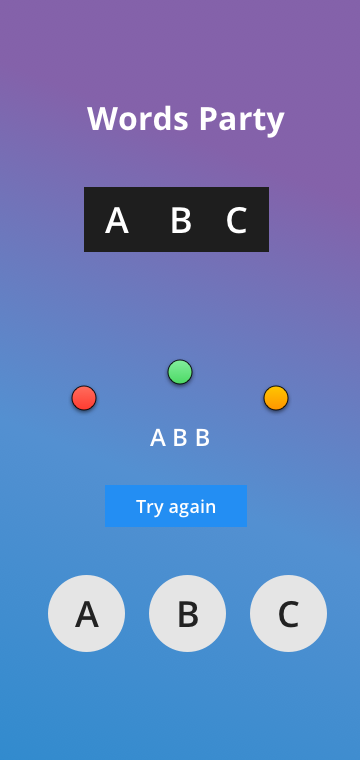
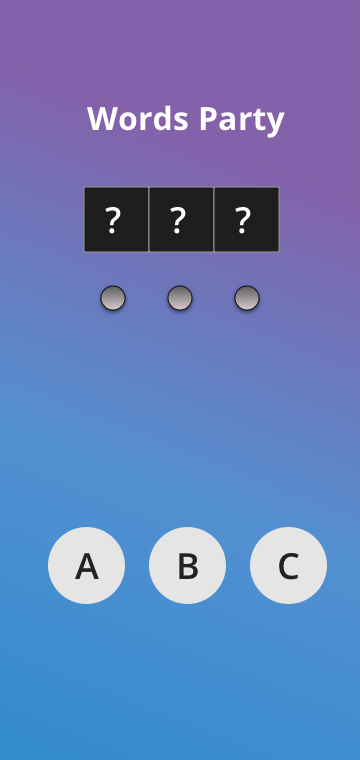
chages pushed

diff --git a/app/src/androidTest/java/com/shift/wordsparty/ExampleInstrumentedTest.kt b/app/src/androidTest/java/com/shift/wordsparty/ExampleInstrumentedTest.kt
@@ -4,7 +4,6 @@ package com.shift.wordsparty
 import androidx.test.espresso.Espresso.onView
 import androidx.test.espresso.action.ViewActions.click
 import androidx.test.espresso.assertion.ViewAssertions.matches
-import androidx.test.espresso.matcher.RootMatchers.isDialog
 import androidx.test.espresso.matcher.ViewMatchers.*
 import androidx.test.ext.junit.runners.AndroidJUnit4
 import androidx.test.platform.app.InstrumentationRegistry
@@ -13,11 +12,9 @@ import com.shift.wordsparty.ui.MainActivity
 import com.shift.wordsparty.ui.MainViewModel
 import junit.framework.Assert.assertEquals
 import org.hamcrest.core.IsNot.not
-
 import org.junit.Before
 import org.junit.Rule
 import org.junit.Test
-
 import org.junit.runner.RunWith
 
 
@@ -27,19 +24,14 @@ import org.junit.runner.RunWith
  * See [testing documentation](http://d.android.com/tools/testing).
  */
 
+
 @RunWith(AndroidJUnit4::class)
 class ExampleInstrumentedTest {
+
 
     @Rule
     @JvmField
     val rule = ActivityTestRule(MainActivity::class.java)
-
-    private lateinit var viewModel: MainViewModel
-
-    @Before
-    fun setUp() {
-        viewModel = MainViewModel()
-    }
 
 
     @Test
@@ -69,32 +61,6 @@ class ExampleInstrumentedTest {
         onView(withText("Try Again")).check(matches(not(isDisplayed())))
     }
 
-
-//    // stop device animations in developer options before test this.
-//    @Test
-//    fun test_try_again_button_should_visible_if_guessed_answer_is_wrong() {
-//
-//        viewModel.setNewCurrentAns("AAA")
-//
-//        onView(withId(R.id.buttonA)).perform(click())
-//        onView(withId(R.id.buttonB)).perform(click())
-//        onView(withId(R.id.buttonB)).perform(click())
-//        onView(withText("Try Again")).check(matches((isDisplayed())))
-//
-//    }
-
-//    @Test
-//    fun test_victory_dialog_is_displayed_if_player_has_won() {
-//
-//        viewModel.setNewCurrentAns("AAA")
-//
-//        onView(withId(R.id.buttonA)).perform(click())
-//        onView(withId(R.id.buttonA)).perform(click())
-//        onView(withId(R.id.buttonA)).perform(click())
-//        onView(withText("Hurray"))
-//            .inRoot(isDialog())
-//            .check(matches(isDisplayed()))
-//    }
-
-
 }
+
+

diff --git a/app/src/main/java/com/shift/wordsparty/ui/MainActivity.kt b/app/src/main/java/com/shift/wordsparty/ui/MainActivity.kt
@@ -1,7 +1,6 @@
 package com.shift.wordsparty.ui
 
 import android.os.Bundle
-import android.util.Log
 import androidx.appcompat.app.AppCompatActivity
 import androidx.databinding.DataBindingUtil
 import androidx.lifecycle.Observer
@@ -13,12 +12,13 @@ import com.shift.wordsparty.extentions.playSound
 
 class MainActivity : AppCompatActivity() {
 
-    private val viewModel by lazy { ViewModelProvider(this).get(MainViewModel::class.java) }
-    private var binding: ActivityMainBinding? = null
+     lateinit var viewModel:MainViewModel
+     private var binding: ActivityMainBinding? = null
 
     override fun onCreate(savedInstanceState: Bundle?) {
         super.onCreate(savedInstanceState)
         binding = DataBindingUtil.setContentView(this, R.layout.activity_main)
+        viewModel = ViewModelProvider(this).get(MainViewModel::class.java)
         binding?.lifecycleOwner = this
         binding?.viewmodel = viewModel
 
@@ -32,6 +32,7 @@ class MainActivity : AppCompatActivity() {
     private fun setObservables() {
         viewModel.guessedAnswer.observe(this, Observer {
             if (it.length == 3 && viewModel.checkIfPlayerHasWon()) {
+                viewModel.isPlayerWon.value = true
                 showDialog()
                 playSound(this, R.raw.victory)
             } else if (it.length == 3) {
@@ -48,7 +49,6 @@ class MainActivity : AppCompatActivity() {
             .setMessage("Can't wait to play more.")
             .setPositiveButton("Play Again") { dialog, which ->
                 viewModel.resetGame(true)
-                viewModel.isPlayerLost.value = false
             }
             .show()
     }

diff --git a/app/src/main/java/com/shift/wordsparty/ui/MainViewModel.kt b/app/src/main/java/com/shift/wordsparty/ui/MainViewModel.kt
@@ -19,31 +19,28 @@ class MainViewModel : ViewModel() {
     var led1 = MutableLiveData<String>()
     var led2 = MutableLiveData<String>()
     var led3 = MutableLiveData<String>()
+    var isPlayerWon = MutableLiveData<Boolean>()
     var isPlayerLost = MutableLiveData<Boolean>()
 
     fun resetGame(isNewGame: Boolean) {
         if (isNewGame) {
             currentAnswer.value = generateRandomNumber()
         }
-
+        isPlayerWon.value = false
+        isPlayerLost.value = false
         guessedAnswer.value = ""
         led1.value = LedColors.GREY.name
         led2.value = LedColors.GREY.name
         led3.value = LedColors.GREY.name
-        guessedAnswer.observeForever {
-
-        }
     }
 
     fun tryAgainClicked(view: View) {
         resetGame(false)
-        isPlayerLost.value = false
+        isPlayerWon.value = false
     }
 
     fun gameButtonClicked(view: View) {
-        var button = view as Button
-     //   Log.d(mainViewModelLog, "buttonClicked ${button.text}")
-
+        val button = view as Button
         if (guessedAnswer.value?.length ?: 0 < 3) playSound(view.context, R.raw.button_click)
         updateGuessedAnswer(button.text.toString())
     }

diff --git a/app/src/main/java/com/shift/wordsparty/extentions/BindingAdapters.kt b/app/src/main/java/com/shift/wordsparty/extentions/BindingAdapters.kt
@@ -55,7 +55,7 @@ fun setCurrentAns(view: View, currentAns: String, textPos: Int) {
         }
 
         else -> {
-            textView.text = ""
+            textView.text = "?"
         }
     }
 }

diff --git a/README.md b/README.md
@@ -2,7 +2,7 @@ WordsParty
 
 WordsParty is a kids game. There will be a random generated 3 letters which has to be guessed.
 
-![Optional Text](../master/game_screenshot_1.png)
+![Optional Text](../master/game.png)
 
 
 
